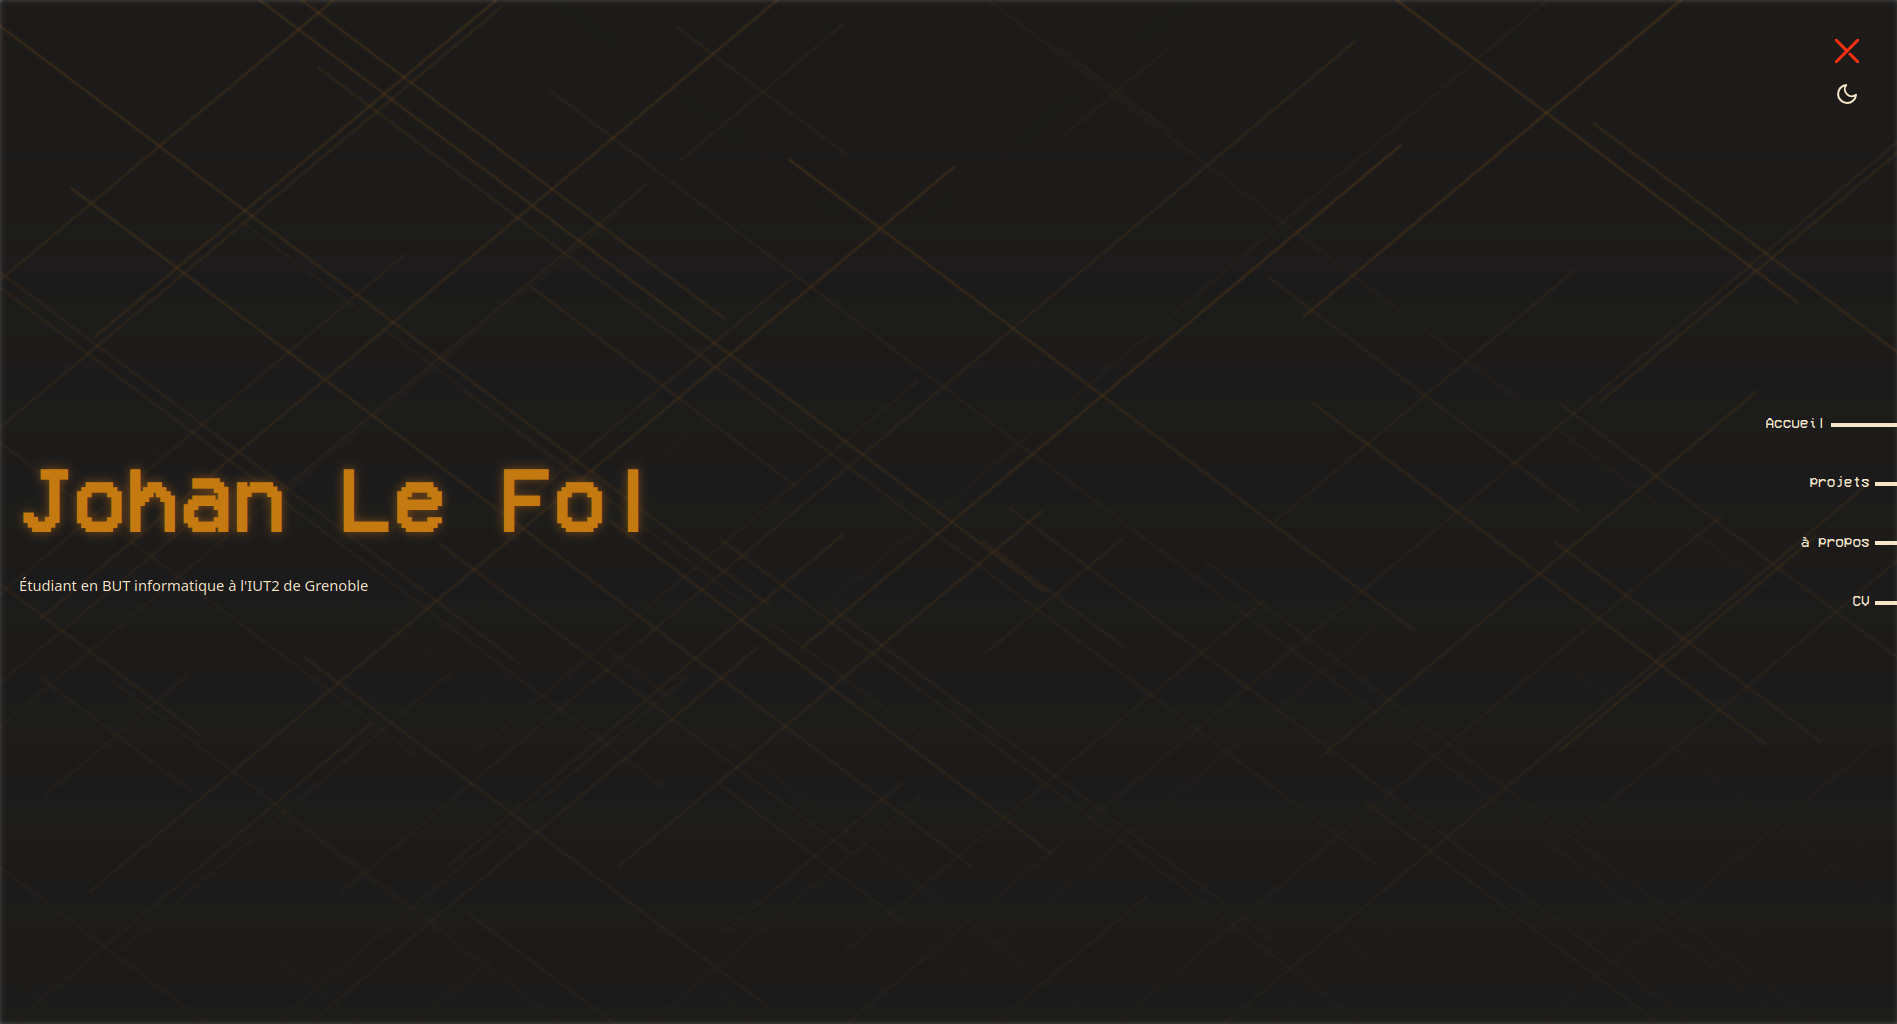
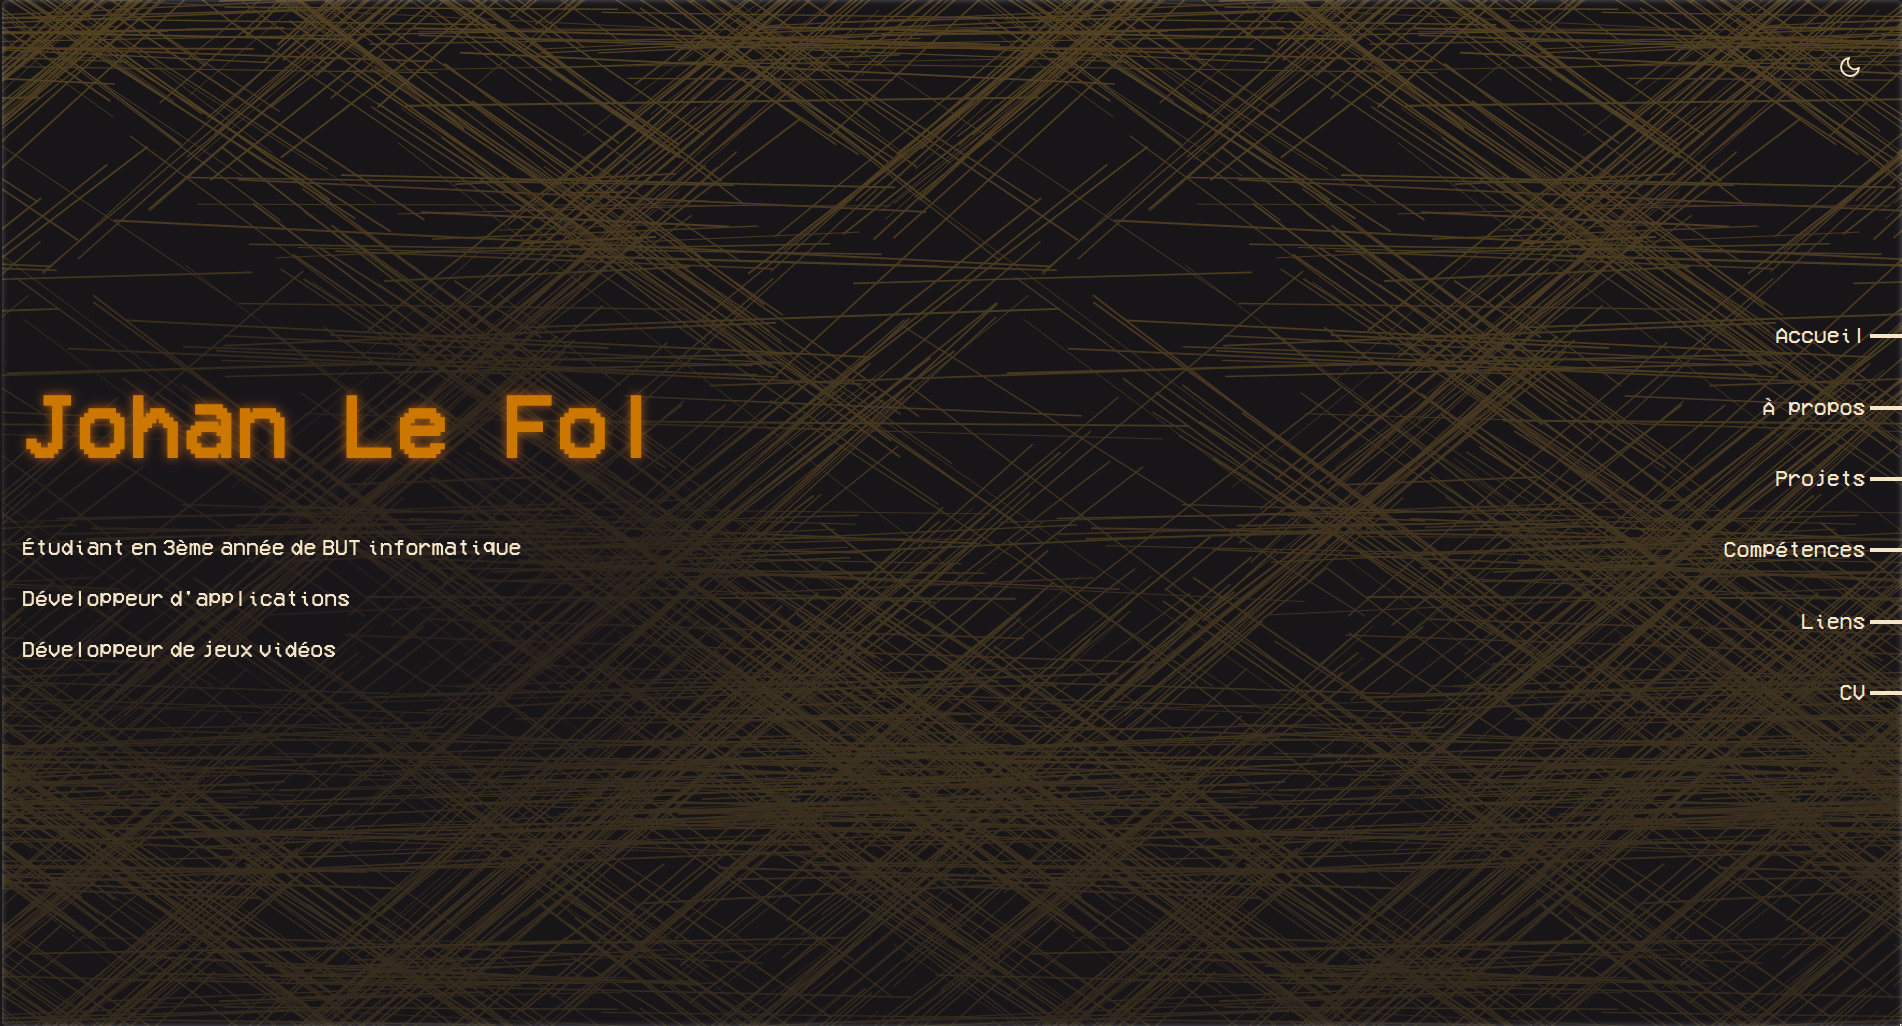
added glitch animation to subtitle
changed subtitle
added glitch animation to subtitle
updated portfolio image

diff --git a/style/style.css b/style/style.css
@@ -11,7 +11,7 @@
 :root {
 	--font: "HarmonyOS Sans", Arial, Helvetica, sans-serif;
 	--font-title: "VCR OSD Mono";
-	--font-crypt: "Endfield";
+	--font-crypt: "Endfield", "VCR OSD Mono";
 	--main-color: #d65a00;
 	--secondary-color: #b25f11;
 	--warning-color: #ff3010;
@@ -166,6 +166,16 @@ section {
 	animation: glitch var(--dur) steps(1) var(--del) var(--it) forwards;
 }
 
+.subtitle {
+	font-size: 1.5em;
+}
+
+.subtitle .letter {
+	display: inline-block;
+	font-family: var(--font-crypt);
+	animation: glitch var(--dur) steps(1) var(--del) var(--it) forwards;
+}
+
 @keyframes glitch {
 	0% {
 		font-family: var(--font-title);
@@ -177,26 +187,6 @@ section {
 
 	100% {
 		font-family: var(--font-title);
-	}
-}
-
-@keyframes slideInFromAboveLeft {
-	0% {
-		transform: translate(-100%, -200%);
-	}
-
-	100% {
-		transform: translate(0, 0);
-	}
-}
-
-@keyframes slideInFromLeft {
-	0% {
-		transform: translateX(-100%);
-	}
-
-	100% {
-		transform: translateX(0);
 	}
 }
 
@@ -216,12 +206,6 @@ h2.crypt {
 	margin: 0;
 	font-family: var(--font-crypt);
 	font-size: 3em;
-}
-
-#hub p {
-	font-size: 1.5em;
-	width: 70%;
-	animation: 0.7s ease-in-out 0s 1 slideInFromLeft;
 }
 
 nav {
@@ -542,6 +526,10 @@ hr {
 	border-bottom-left-radius: 1em;
 }
 
+nav #navBar-close {
+	display: none;
+}
+
 nav.hide {
 	right: -15%;
 
@@ -572,6 +560,10 @@ iframe {
 
 	nav.hide {
 		right: -100%;
+	}
+
+	nav #navBar-close {
+		display: block;
 	}
 
 	.popupContent {

diff --git a/js/glitch.js b/js/glitch.js
@@ -1,9 +1,17 @@
 const title = document.getElementById("title");
-const text = title.textContent.trim();
+const titleText = title.textContent.trim();
 
-title.innerHTML = [...text]
-	.map((c, i) => createLetter(c, i, 0.4, 0.4, 2, 2, 0.1))
+title.innerHTML = [...titleText]
+	.map((c, i) => createLetter(c, i, 0.3, 0.3, 2, 2, 0.1))
 	.join("");
+
+document.querySelectorAll(".subtitle").forEach((subtitle) => {
+	const text = subtitle.textContent.trim();
+
+	subtitle.innerHTML = [...text]
+		.map((c, i) => createLetter(c, i, 0.1, 0.1, 2, 1, 0.1))
+		.join("");
+});
 
 document.querySelectorAll("nav a").forEach((link) => {
 	const text = link.textContent.trim();
@@ -14,6 +22,7 @@ document.querySelectorAll("nav a").forEach((link) => {
 });
 
 function createLetter(c, i, minDur, varDur, minIt, varIt, multDel) {
+	if (c === " ") return " ";
 	if (c === " ") return " ";
 
 	const dur = (minDur + Math.random() * varDur).toFixed(2);

diff --git a/index.html b/index.html
@@ -90,9 +90,13 @@
 				<h1 id="title">
 					Johan Le Fol
 				</h1>
-				<p>
-					Étudiant en BUT informatique à l'IUT2 de Grenoble
-					<br>
+				<p class="subtitle">
+					Étudiant en 3ème année de BUT informatique
+				</p>
+				<p class="subtitle">
+					Développeur d'applications
+				</p>
+				<p class="subtitle">
 					Développeur de jeux vidéos
 				</p>
 			</article>
